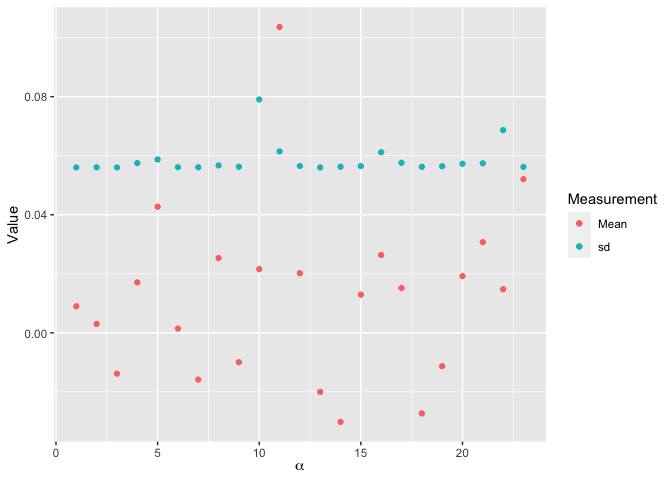
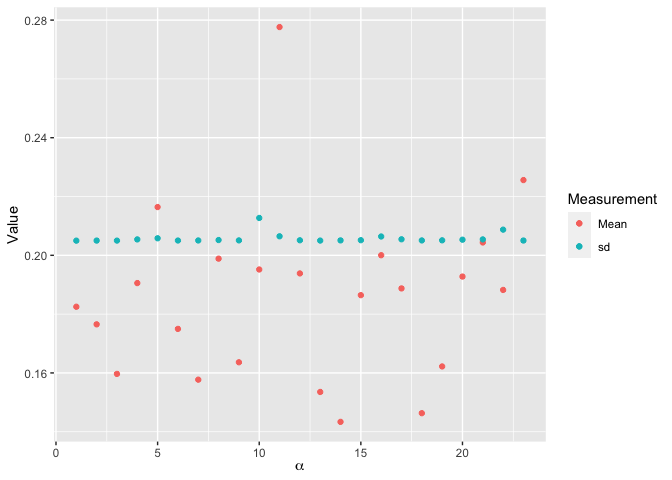
Knitted Changes

diff --git a/Vaporfly.md b/Vaporfly.md
@@ -377,18 +377,18 @@ log(Y\_i) \\sim N(\\mu\_i, \\sigma^2)\\\\
 V\_i \\in 0,1: Vaporfly\\\\
 S\_i \\in 0,1: Sex\\\\
 \\alpha\_i: marathon \\space \\space effect\\\\
-\\beta\_i \\sim N(0, 10)\\\\
-\\alpha\_i \\sim N(0, 10)\\\\
+\\beta\_i \\sim N(0, 1)\\\\
+\\alpha\_i \\sim N(0, 1)\\\\
 \\sigma^2 \\sim InvGamma(0.1, 1)\\\\
-](https://latex.codecogs.com/png.latex?%0Alog%28Y_i%29%20%5Csim%20N%28%5Cmu_i%2C%20%5Csigma%5E2%29%5C%5C%0A%5Cmu_i%20%3D%20%5Cbeta_0%2B%5Cbeta1V_i%2B%5Cbeta_2S_i%2B%5Cbeta_3S_i%2AV_i%20%2B%20%5Calpha_i%5C%5C%0AV_i%20%5Cin%200%2C1%3A%20Vaporfly%5C%5C%0AS_i%20%5Cin%200%2C1%3A%20Sex%5C%5C%0A%5Calpha_i%3A%20marathon%20%5Cspace%20%5Cspace%20effect%5C%5C%0A%5Cbeta_i%20%5Csim%20N%280%2C%2010%29%5C%5C%0A%5Calpha_i%20%5Csim%20N%280%2C%2010%29%5C%5C%0A%5Csigma%5E2%20%5Csim%20InvGamma%280.1%2C%201%29%5C%5C%0A
+](https://latex.codecogs.com/png.latex?%0Alog%28Y_i%29%20%5Csim%20N%28%5Cmu_i%2C%20%5Csigma%5E2%29%5C%5C%0A%5Cmu_i%20%3D%20%5Cbeta_0%2B%5Cbeta1V_i%2B%5Cbeta_2S_i%2B%5Cbeta_3S_i%2AV_i%20%2B%20%5Calpha_i%5C%5C%0AV_i%20%5Cin%200%2C1%3A%20Vaporfly%5C%5C%0AS_i%20%5Cin%200%2C1%3A%20Sex%5C%5C%0A%5Calpha_i%3A%20marathon%20%5Cspace%20%5Cspace%20effect%5C%5C%0A%5Cbeta_i%20%5Csim%20N%280%2C%201%29%5C%5C%0A%5Calpha_i%20%5Csim%20N%280%2C%201%29%5C%5C%0A%5Csigma%5E2%20%5Csim%20InvGamma%280.1%2C%201%29%5C%5C%0A
 "
 log(Y_i) \\sim N(\\mu_i, \\sigma^2)\\\\
 \\mu_i = \\beta_0+\\beta1V_i+\\beta_2S_i+\\beta_3S_i*V_i + \\alpha_i\\\\
 V_i \\in 0,1: Vaporfly\\\\
 S_i \\in 0,1: Sex\\\\
 \\alpha_i: marathon \\space \\space effect\\\\
-\\beta_i \\sim N(0, 10)\\\\
-\\alpha_i \\sim N(0, 10)\\\\
+\\beta_i \\sim N(0, 1)\\\\
+\\alpha_i \\sim N(0, 1)\\\\
 \\sigma^2 \\sim InvGamma(0.1, 1)\\\\
 ")  
 
@@ -409,22 +409,22 @@ model_string = textConnection("model{
   
   #Random effects
   for(j in 1:n_mar){
-    alpha[j] ~ dnorm(0, 10)
+    alpha[j] ~ dnorm(0, 1)
   }
   
-  B0 ~ dnorm(0, 0.1)
-  B1 ~ dnorm(0, 0.1)
-  B2 ~ dnorm(0, 0.1)
+  B0 ~ dnorm(0, 1)
+  B1 ~ dnorm(0, 1)
+  B2 ~ dnorm(0, 1)
   tau ~ dgamma(0.1, 1)
   sigma = 1/sqrt(tau)
 }")
 
 inits_random = list(B0=0, B1=0, B2=0, alpha=rep(0, n_mar), tau=1)
 model = jags.model(model_string, data=data, inits = inits_random, n.chains = 2, quiet=T)
-update(model, 10000, progress.bar="none")
+update(model, 100000, progress.bar="none")
 
 params = c("B0", "B1", "B2", "alpha", "sigma")
-samples_4 = coda.samples(model, variable.names = params, n.iter=50000, progress.bar="none")
+samples_4 = coda.samples(model, variable.names = params, n.iter=200000, progress.bar="none")
 
 #Compute DIC
 dic_4 = dic.samples(model, n.iter=50000, progress.bar="none")
@@ -437,37 +437,37 @@ gelman.diag(samples_4)
     ## Potential scale reduction factors:
     ## 
     ##           Point est. Upper C.I.
-    ## B0              1.10       1.35
+    ## B0              1.17       1.61
     ## B1              1.00       1.00
     ## B2              1.00       1.00
-    ## alpha[1]        1.10       1.36
-    ## alpha[2]        1.09       1.35
-    ## alpha[3]        1.09       1.35
-    ## alpha[4]        1.09       1.34
-    ## alpha[5]        1.08       1.31
-    ## alpha[6]        1.09       1.35
-    ## alpha[7]        1.09       1.35
-    ## alpha[8]        1.09       1.34
-    ## alpha[9]        1.09       1.35
-    ## alpha[10]       1.04       1.15
-    ## alpha[11]       1.07       1.28
-    ## alpha[12]       1.09       1.34
-    ## alpha[13]       1.09       1.35
-    ## alpha[14]       1.09       1.35
-    ## alpha[15]       1.09       1.34
-    ## alpha[16]       1.07       1.28
-    ## alpha[17]       1.09       1.33
-    ## alpha[18]       1.09       1.35
-    ## alpha[19]       1.09       1.34
-    ## alpha[20]       1.09       1.33
-    ## alpha[21]       1.09       1.33
-    ## alpha[22]       1.05       1.21
-    ## alpha[23]       1.09       1.35
+    ## alpha[1]        1.17       1.61
+    ## alpha[2]        1.17       1.61
+    ## alpha[3]        1.17       1.61
+    ## alpha[4]        1.17       1.61
+    ## alpha[5]        1.17       1.60
+    ## alpha[6]        1.17       1.61
+    ## alpha[7]        1.17       1.61
+    ## alpha[8]        1.17       1.61
+    ## alpha[9]        1.17       1.61
+    ## alpha[10]       1.15       1.53
+    ## alpha[11]       1.17       1.59
+    ## alpha[12]       1.17       1.61
+    ## alpha[13]       1.17       1.61
+    ## alpha[14]       1.17       1.61
+    ## alpha[15]       1.17       1.61
+    ## alpha[16]       1.17       1.59
+    ## alpha[17]       1.17       1.60
+    ## alpha[18]       1.17       1.61
+    ## alpha[19]       1.17       1.61
+    ## alpha[20]       1.17       1.60
+    ## alpha[21]       1.17       1.61
+    ## alpha[22]       1.16       1.57
+    ## alpha[23]       1.17       1.61
     ## sigma           1.00       1.00
     ## 
     ## Multivariate psrf
     ## 
-    ## 1.05
+    ## 1.07
 
 This model suggests that there is no significant difference between
 marathon courses since the effective sample sizes are so small even
@@ -712,7 +712,7 @@ dic_4
 ```
 
     ## Mean deviance:  -5146 
-    ## penalty 26 
+    ## penalty 26.03 
     ## Penalized deviance: -5120
 
 ``` r
@@ -722,3 +722,8 @@ dic_5Star
     ## Mean deviance:  -5292 
     ## penalty 583.1 
     ## Penalized deviance: -4709
+
+With relatively limited computational power, I couldn’t run more
+iterations of the final model to achieve a Gelman-Ruben Statistic in an
+acceptable range. 2 Chains of 200,000 iterations didn’t provide
+satisfactory convergence diagnostics. Regardless,
